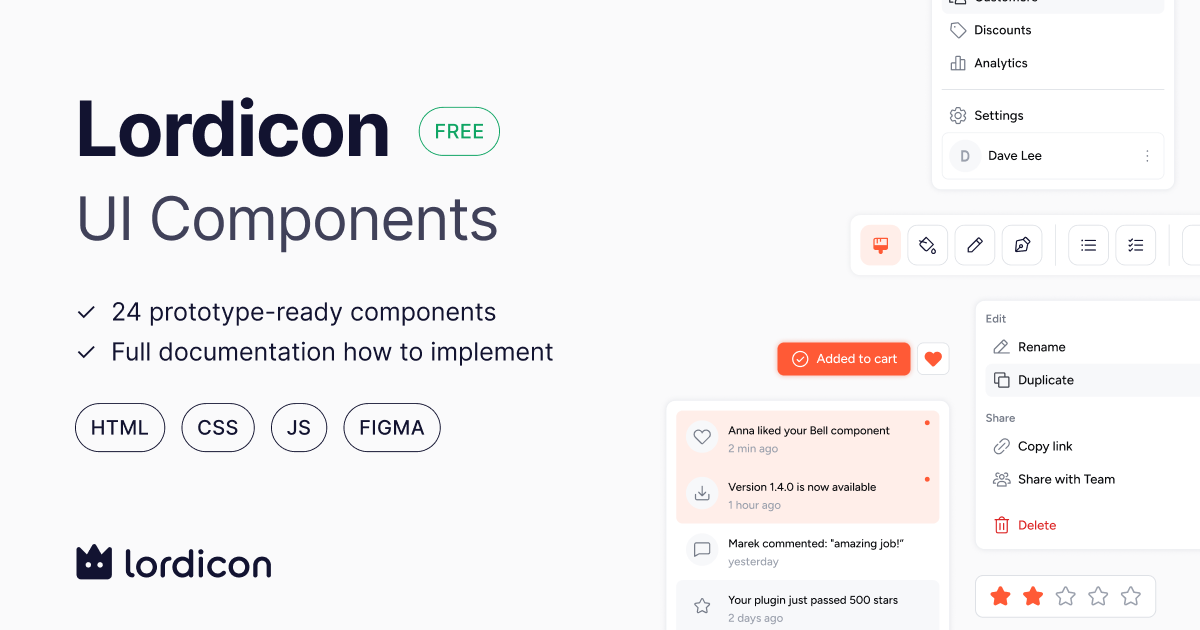
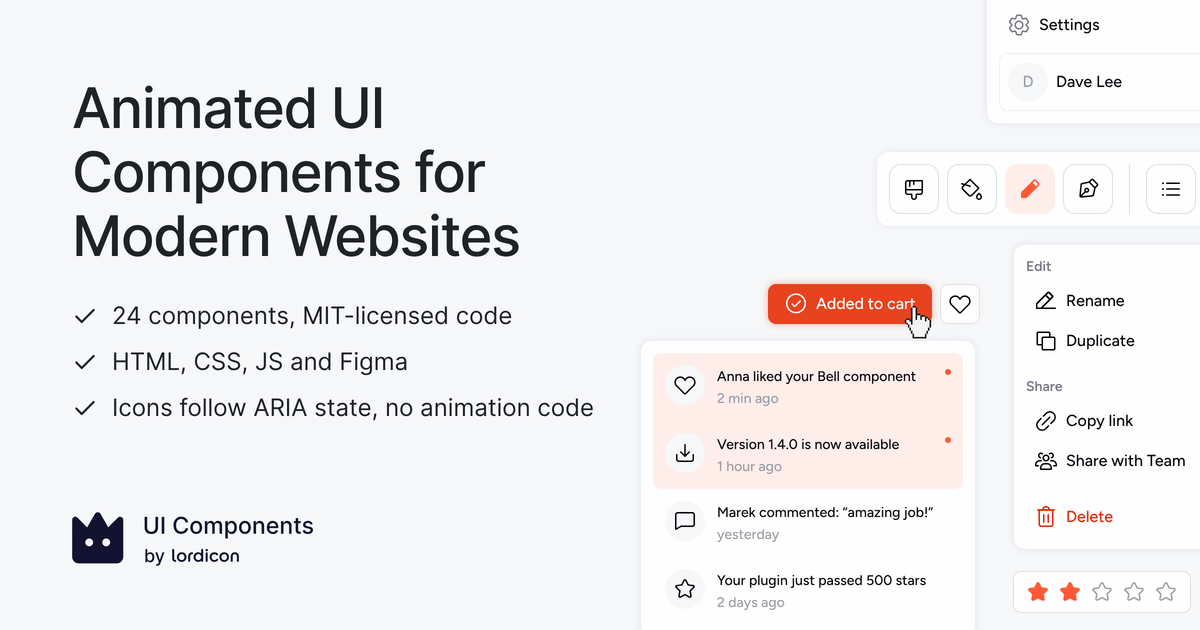
UI Components by Lordicon 1.2.1
Open in Figma on every demo page and View on Figma on the home page, all
linking to the free UI kit in the Figma Community. New home page title,
description and animated link preview. The missing "When to use" GIF for
Add to cart. README: banner, new heading and intro, a clear link to
components.lordicon.com, and the demo table split into the site's
sections with a GIF preview for each demo.

diff --git a/scripts/lib/codepen.test.ts b/scripts/lib/codepen.test.ts
@@ -8,7 +8,7 @@ const config: SiteConfig = {
     title: 'UI Components',
     description: '',
     siteUrl: 'https://example.com/',
-    figma: 'https://www.figma.com/design/key/file?node-id=1-1',
+    figma: 'https://www.figma.com/community/file/1/kit',
     utm: { source: 'source', medium: 'medium', campaign: 'campaign' },
     repo: { owner: 'owner', name: 'repo', branch: 'main', exportBranch: 'standalone' },
 };

diff --git a/scripts/lib/demos.ts b/scripts/lib/demos.ts
@@ -31,8 +31,6 @@ export type DemoManifest = {
     /** What to know about the icons and their states, shown above the portal's icon table. */
     iconsNote?: string;
     fragments: Fragment[];
-    /** The demo's frame in the Figma file, if there is one. */
-    figma?: string;
     /** The published pen, if there is one. */
     codepen?: string;
 };

diff --git a/scripts/lib/config.ts b/scripts/lib/config.ts
@@ -23,7 +23,7 @@ export type SiteConfig = {
     title: string;
     description: string;
     siteUrl: string;
-    /** The Figma file with every component. */
+    /** The free UI kit in the Figma Community. */
     figma: string;
     utm: UtmConfig;
     repo: RepoConfig;

diff --git a/README.md b/README.md
@@ -1,8 +1,17 @@
-# UI Components by Lordicon
+<a href="https://components.lordicon.com/?utm_source=github&utm_medium=readme&utm_campaign=ui-components&utm_content=repo-banner">
+    <picture>
+        <source media="(prefers-color-scheme: dark)" srcset=".github/assets/lordicon-ui-components-repo-dark.gif">
+        <img src=".github/assets/lordicon-ui-components-repo-light.gif" width="100%" alt="UI Components by Lordicon: animated icons in real UI controls">
+    </picture>
+</a>
 
-Lordicon system icons in real UI controls: a password field, a menu, a rating, a
+# Animated UI Components by Lordicon – Free Interactive Components
+
+Lordicon system icons wired into everyday controls: a password field, a menu, a rating, a
 button that shows progress, and more. Every demo makes the same point: an icon is a
 reaction to the state of a control, and wiring it up is mostly markup.
+
+**[See every component live on components.lordicon.com →](https://components.lordicon.com/?utm_source=github&utm_medium=readme&utm_campaign=ui-components&utm_content=intro-link)**
 
 Application code sets the control's state in the DOM, usually with ARIA. A Lordicon
 trigger watches that state and animates the icon. Neither knows about the other.
@@ -29,35 +38,67 @@ toggle.addEventListener('click', () => {
 
 ## The demos
 
-Each demo has a page on the [components.lordicon.com](https://components.lordicon.com/) with the demo
-running, the code that matters, and every file it is made of.
+Each demo has a page on [components.lordicon.com](https://components.lordicon.com/) with the demo
+running, the code that matters, and every file it is made of. Click a preview to open it.
 
-| Demo                                            | What it shows                                                                                                                                                   |
-| ----------------------------------------------- | --------------------------------------------------------------------------------------------------------------------------------------------------------------- |
-| [Accordion](demos/accordion/)                   | A stack of headings that each open a section of content. The chevron morphs as a section opens or closes.                                                       |
-| [Add new card](demos/add-new-card/)             | An empty, dashed tile for adding a new item to a grid. Its plus icon turns when you hover over it.                                                              |
-| [Add to cart](demos/add-to-cart/)               | A product action with an Add to cart button and a heart for saving. The button confirms the item was added, and the heart fills when you save it.               |
-| [Alerts](demos/alert/)                          | Short messages about a change or a problem, in four types. Each icon plays as the alert appears.                                                                |
-| [Button progress](demos/button-progress/)       | A button that shows the progress of a download or upload. The icon loops while the file transfers, then a receipt confirms it’s done.                           |
-| [Categories section](demos/categories-section/) | Three rows of category chips that scroll without end, the middle one the other way. Point at a row to stop it; the chip’s icon plays.                           |
-| [Checkbox list](demos/checkbox-list/)           | A list of options to tick, in three styles. The checkbox icon morphs into a tick when you select it.                                                            |
-| [Command menu](demos/command-menu/)             | A search palette for jumping to commands, opened with a keyboard shortcut. Icons react as you move through the commands with the mouse or the arrow keys.       |
-| [Dropdown menu](demos/dropdown-menu/)           | A menu of grouped actions that opens from a button. Icons react to the mouse and the arrow keys.                                                                |
-| [Icon button](demos/icon-button/)               | A bookmark button with no label. The bookmark fills when you press it, and a short message confirms the item was saved.                                         |
-| [Input form](demos/input-form/)                 | A message composer pinned to the bottom of the page. Its menu opens upward, with a submenu and a search inside.                                                 |
-| [Loading list](demos/loading-list/)             | A checklist showing the steps of a running task. Each spinner turns into a tick or a cross when its step finishes.                                              |
-| [Mega menu](demos/mega-menu/)                   | A site header with a Resources menu that opens a wide panel of links. Each tile lights up and plays its icon when you point at it.                              |
-| [Notification menu](demos/notification-menu/)   | A bell that opens a list of recent notifications. It rings when a new one arrives.                                                                              |
-| [Pagination](demos/pagination/)                 | Page navigation for long lists, in three button styles. A highlight slides to the page you pick.                                                                |
-| [Password field](demos/password-field/)         | A password input with a show/hide toggle and error messages. The lock reacts when you click into the field, and the eye morphs open and closed with the toggle. |
-| [Pricing](demos/pricing/)                       | Cards comparing subscription plans, in four layouts. Each plan’s icon plays when you hover over its card.                                                       |
-| [Rating](demos/rating/)                         | A row of five stars for rating something. Stars light up one by one as you hover and morph into filled stars when you pick a rating.                            |
-| [Search bar](demos/search-bar/)                 | A search field with a clear button. The magnifier reacts when you click into the field, and the cross icon appears once you stop typing.                        |
-| [Sidebar navigation](demos/sidebar-navigation/) | A side menu linking to pages of an app. Icons react to hover and the keyboard, and the current page is highlighted.                                             |
-| [Simple button](demos/simple-button/)           | A Call us button. The phone icon rings when you point at it.                                                                                                    |
-| [Star button](demos/star-button/)               | A button for starring an item, with a counter. The star morphs into a filled one when you press it, and the count goes up.                                      |
-| [Title with icon](demos/title-with-icon/)       | A heading with icons between its words, plain or in a box. The icons play by themselves, one after another.                                                     |
-| [Toolbar](demos/toolbar/)                       | A row of tools and formatting options. Icons morph into place as you pick a tool or list style, and play when pressed.                                          |
+### Buttons
+
+| Preview                                                                                                                                                                                                                                                           | Demo                                      | What it shows                                                                                                                                     |
+| ----------------------------------------------------------------------------------------------------------------------------------------------------------------------------------------------------------------------------------------------------------------- | ----------------------------------------- | ------------------------------------------------------------------------------------------------------------------------------------------------- |
+| <a href="https://components.lordicon.com/demos/add-to-cart/"><img src="portal/src/gifs/animated-add-to-cart-button.gif" width="200" alt="Animated add to cart button with heart icon: cart confirms the item and the heart fills when saved"></a>                 | [Add to cart](demos/add-to-cart/)         | A product action with an Add to cart button and a heart for saving. The button confirms the item was added, and the heart fills when you save it. |
+| <a href="https://components.lordicon.com/demos/button-progress/"><img src="portal/src/gifs/animated-download-progress-button.gif" width="200" alt="Animated download progress button: icon loops during the file transfer and a receipt confirms completion"></a> | [Button progress](demos/button-progress/) | A button that shows the progress of a download or upload. The icon loops while the file transfers, then a receipt confirms it’s done.             |
+| <a href="https://components.lordicon.com/demos/icon-button/"><img src="portal/src/gifs/animated-bookmark-icon-button.gif" width="200" alt="Animated bookmark icon button: bookmark fills on click and a short message confirms the item was saved"></a>           | [Icon button](demos/icon-button/)         | A bookmark button with no label. The bookmark fills when you press it, and a short message confirms the item was saved.                           |
+| <a href="https://components.lordicon.com/demos/simple-button/"><img src="portal/src/gifs/animated-call-us-button.gif" width="200" alt="Animated Call us button: phone icon rings on hover"></a>                                                                   | [Simple button](demos/simple-button/)     | A Call us button. The phone icon rings when you point at it.                                                                                      |
+| <a href="https://components.lordicon.com/demos/star-button/"><img src="portal/src/gifs/animated-star-button-counter.gif" width="200" alt="Animated star button with counter: star morphs into a filled star on click and the count goes up"></a>                  | [Star button](demos/star-button/)         | A button for starring an item, with a counter. The star morphs into a filled one when you press it, and the count goes up.                        |
+| <a href="https://components.lordicon.com/demos/toolbar/"><img src="portal/src/gifs/animated-text-editor-toolbar.gif" width="200" alt="Animated text editor toolbar: tool and list style icons morph into place when selected and play when pressed"></a>          | [Toolbar](demos/toolbar/)                 | A row of tools and formatting options. Icons morph into place as you pick a tool or list style, and play when pressed.                            |
+
+### Forms & Inputs
+
+| Preview                                                                                                                                                                                                                                                             | Demo                                    | What it shows                                                                                                                                                   |
+| ------------------------------------------------------------------------------------------------------------------------------------------------------------------------------------------------------------------------------------------------------------------- | --------------------------------------- | --------------------------------------------------------------------------------------------------------------------------------------------------------------- |
+| <a href="https://components.lordicon.com/demos/checkbox-list/"><img src="portal/src/gifs/animated-checkbox-list-component.gif" width="200" alt="Animated checkbox list in three styles: checkbox icon morphs into a tick when selected"></a>                        | [Checkbox list](demos/checkbox-list/)   | A list of options to tick, in three styles. The checkbox icon morphs into a tick when you select it.                                                            |
+| <a href="https://components.lordicon.com/demos/input-form/"><img src="portal/src/gifs/animated-chat-input-form.gif" width="200" alt="Animated chat message input form with an upward menu, submenu and search, icons animating on hover"></a>                       | [Input form](demos/input-form/)         | A message composer pinned to the bottom of the page. Its menu opens upward, with a submenu and a search inside.                                                 |
+| <a href="https://components.lordicon.com/demos/password-field/"><img src="portal/src/gifs/animated-password-field-show-hide.gif" width="200" alt="Animated password field: lock reacts on focus and eye icon morphs open and closed with the show/hide toggle"></a> | [Password field](demos/password-field/) | A password input with a show/hide toggle and error messages. The lock reacts when you click into the field, and the eye morphs open and closed with the toggle. |
+| <a href="https://components.lordicon.com/demos/rating/"><img src="portal/src/gifs/animated-star-rating-component.gif" width="200" alt="Animated star rating: five stars light up one by one on hover and fill when a rating is selected"></a>                       | [Rating](demos/rating/)                 | A row of five stars for rating something. Stars light up one by one as you hover and morph into filled stars when you pick a rating.                            |
+| <a href="https://components.lordicon.com/demos/search-bar/"><img src="portal/src/gifs/animated-search-bar-component.gif" width="200" alt="Animated search bar: magnifier icon reacts on focus and a clear button appears after typing"></a>                         | [Search bar](demos/search-bar/)         | A search field with a clear button. The magnifier reacts when you click into the field, and the cross icon appears once you stop typing.                        |
+
+### Menus
+
+| Preview                                                                                                                                                                                                                                                                | Demo                                          | What it shows                                                                                                                                             |
+| ---------------------------------------------------------------------------------------------------------------------------------------------------------------------------------------------------------------------------------------------------------------------- | --------------------------------------------- | --------------------------------------------------------------------------------------------------------------------------------------------------------- |
+| <a href="https://components.lordicon.com/demos/command-menu/"><img src="portal/src/gifs/animated-command-menu-component.gif" width="200" alt="Animated command menu search palette: icons react while moving through commands with mouse or arrow keys"></a>           | [Command menu](demos/command-menu/)           | A search palette for jumping to commands, opened with a keyboard shortcut. Icons react as you move through the commands with the mouse or the arrow keys. |
+| <a href="https://components.lordicon.com/demos/dropdown-menu/"><img src="portal/src/gifs/animated-dropdown-menu-component.gif" width="200" alt="Animated dropdown menu with grouped actions: icons react to hover and keyboard navigation"></a>                        | [Dropdown menu](demos/dropdown-menu/)         | A menu of grouped actions that opens from a button. Icons react to the mouse and the arrow keys.                                                          |
+| <a href="https://components.lordicon.com/demos/notification-menu/"><img src="portal/src/gifs/animated-notification-menu-bell.gif" width="200" alt="Animated notification menu: bell icon rings when a new notification arrives and opens a list of recent alerts"></a> | [Notification menu](demos/notification-menu/) | A bell that opens a list of recent notifications. It rings when a new one arrives.                                                                        |
+
+### Navigation
+
+| Preview                                                                                                                                                                                                                                                           | Demo                                            | What it shows                                                                                                                      |
+| ----------------------------------------------------------------------------------------------------------------------------------------------------------------------------------------------------------------------------------------------------------------- | ----------------------------------------------- | ---------------------------------------------------------------------------------------------------------------------------------- |
+| <a href="https://components.lordicon.com/demos/mega-menu/"><img src="portal/src/gifs/animated-mega-menu-component.gif" width="200" alt="Animated mega menu: Resources panel opens with link tiles that light up and play their icons on hover"></a>               | [Mega menu](demos/mega-menu/)                   | A site header with a Resources menu that opens a wide panel of links. Each tile lights up and plays its icon when you point at it. |
+| <a href="https://components.lordicon.com/demos/pagination/"><img src="portal/src/gifs/animated-pagination-component.gif" width="200" alt="Animated pagination in three button styles: highlight slides to the selected page"></a>                                 | [Pagination](demos/pagination/)                 | Page navigation for long lists, in three button styles. A highlight slides to the page you pick.                                   |
+| <a href="https://components.lordicon.com/demos/sidebar-navigation/"><img src="portal/src/gifs/animated-sidebar-navigation-menu.gif" width="200" alt="Animated sidebar navigation menu: icons react to hover and keyboard, with the current page highlighted"></a> | [Sidebar navigation](demos/sidebar-navigation/) | A side menu linking to pages of an app. Icons react to hover and the keyboard, and the current page is highlighted.                |
+
+### Feedback & Progress
+
+| Preview                                                                                                                                                                                                                                         | Demo                                | What it shows                                                                                                      |
+| ----------------------------------------------------------------------------------------------------------------------------------------------------------------------------------------------------------------------------------------------- | ----------------------------------- | ------------------------------------------------------------------------------------------------------------------ |
+| <a href="https://components.lordicon.com/demos/alert/"><img src="portal/src/gifs/animated-alert-component.gif" width="200" alt="Animated alert messages in four types: success, info, warning and error icons play as each alert appears"></a>  | [Alerts](demos/alert/)              | Short messages about a change or a problem, in four types. Each icon plays as the alert appears.                   |
+| <a href="https://components.lordicon.com/demos/loading-list/"><img src="portal/src/gifs/animated-loading-list-component.gif" width="200" alt="Animated loading checklist: spinners turn into a tick or a cross as each task step finishes"></a> | [Loading list](demos/loading-list/) | A checklist showing the steps of a running task. Each spinner turns into a tick or a cross when its step finishes. |
+
+### Containers
+
+| Preview                                                                                                                                                                                                                          | Demo                                | What it shows                                                                                             |
+| -------------------------------------------------------------------------------------------------------------------------------------------------------------------------------------------------------------------------------- | ----------------------------------- | --------------------------------------------------------------------------------------------------------- |
+| <a href="https://components.lordicon.com/demos/accordion/"><img src="portal/src/gifs/animated-accordion-component.gif" width="200" alt="Animated accordion component: chevron icon morphs as each section opens and closes"></a> | [Accordion](demos/accordion/)       | A stack of headings that each open a section of content. The chevron morphs as a section opens or closes. |
+| <a href="https://components.lordicon.com/demos/add-new-card/"><img src="portal/src/gifs/animated-add-new-card-component.gif" width="200" alt="Animated add new card tile: dashed card with a plus icon that turns on hover"></a> | [Add new card](demos/add-new-card/) | An empty, dashed tile for adding a new item to a grid. Its plus icon turns when you hover over it.        |
+
+### Page sections
+
+| Preview                                                                                                                                                                                                                                                 | Demo                                            | What it shows                                                                                                                         |
+| ------------------------------------------------------------------------------------------------------------------------------------------------------------------------------------------------------------------------------------------------------- | ----------------------------------------------- | ------------------------------------------------------------------------------------------------------------------------------------- |
+| <a href="https://components.lordicon.com/demos/categories-section/"><img src="portal/src/gifs/animated-categories-section.gif" width="200" alt="Animated categories section: three rows of scrolling category chips with icons that play on hover"></a> | [Categories section](demos/categories-section/) | Three rows of category chips that scroll without end, the middle one the other way. Point at a row to stop it; the chip’s icon plays. |
+| <a href="https://components.lordicon.com/demos/pricing/"><img src="portal/src/gifs/animated-pricing-cards-section.gif" width="200" alt="Animated pricing cards comparing subscription plans: each plan icon plays on hover"></a>                        | [Pricing](demos/pricing/)                       | Cards comparing subscription plans, in four layouts. Each plan’s icon plays when you hover over its card.                             |
+| <a href="https://components.lordicon.com/demos/title-with-icon/"><img src="portal/src/gifs/animated-title-with-icons.gif" width="200" alt="Animated heading with icons between words, plain and boxed, icons playing one after another"></a>            | [Title with icon](demos/title-with-icon/)       | A heading with icons between its words, plain or in a box. The icons play by themselves, one after another.                           |
 
 ## Take a demo
 
